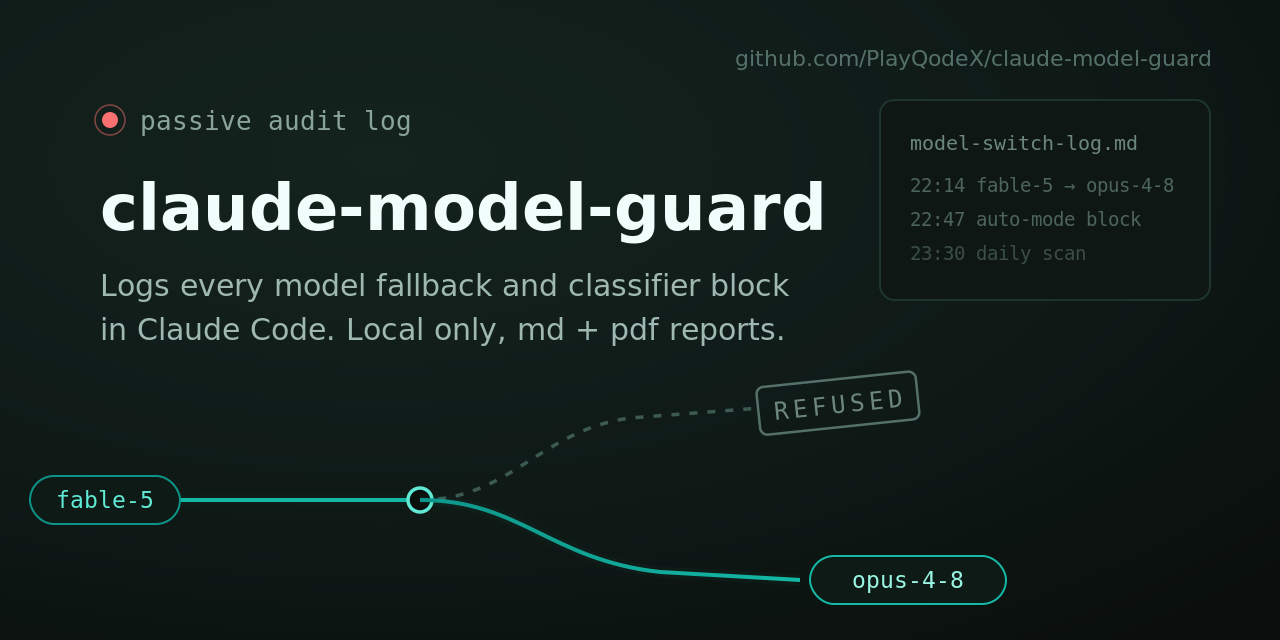
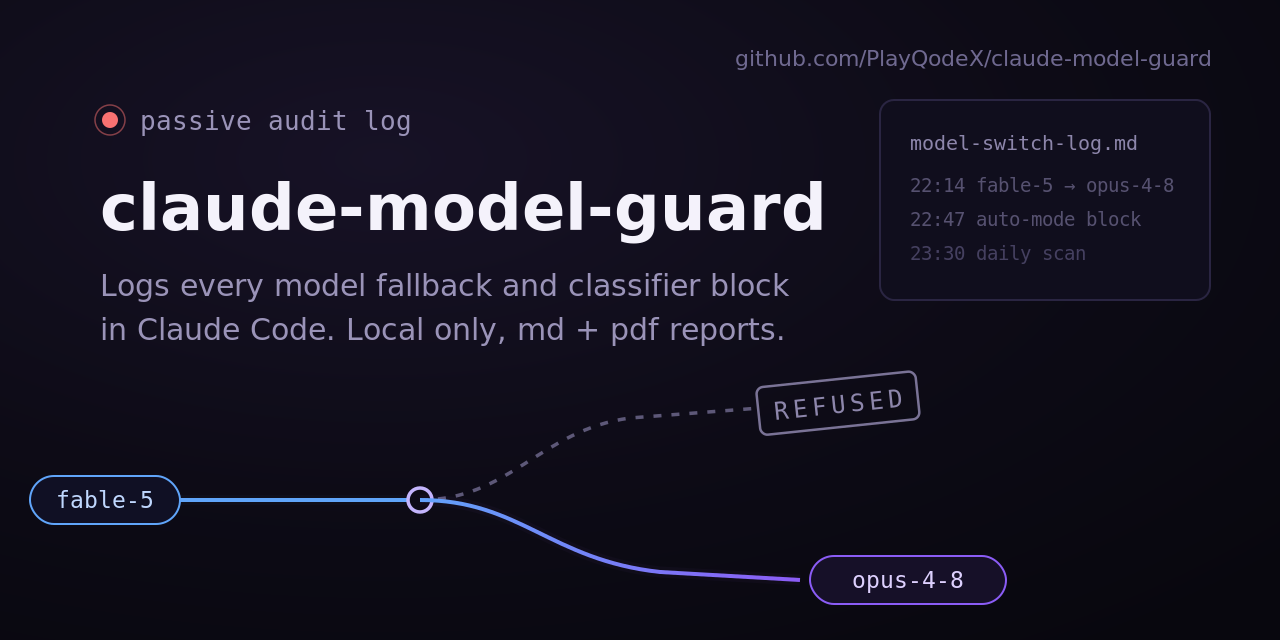
docs: rebrand GitHub assets to the purple account palette

diff --git a/README.md b/README.md
@@ -1,8 +1,8 @@
 ![claude-model-guard: a passive audit log of Claude Code's model routing](assets/banner.svg)
 
-[![MIT license](https://img.shields.io/badge/license-MIT-14B8A6)](LICENSE)
-[![Node.js](https://img.shields.io/badge/runtime-Node.js-0D9488)](#requirements)
-[![Claude Code skill](https://img.shields.io/badge/Claude%20Code-skill-14B8A6)](#install)
+[![MIT license](https://img.shields.io/badge/license-MIT-8B5CF6)](LICENSE)
+[![Node.js](https://img.shields.io/badge/runtime-Node.js-6366F1)](#requirements)
+[![Claude Code skill](https://img.shields.io/badge/Claude%20Code-skill-8B5CF6)](#install)
 
 # claude-model-guard
 
